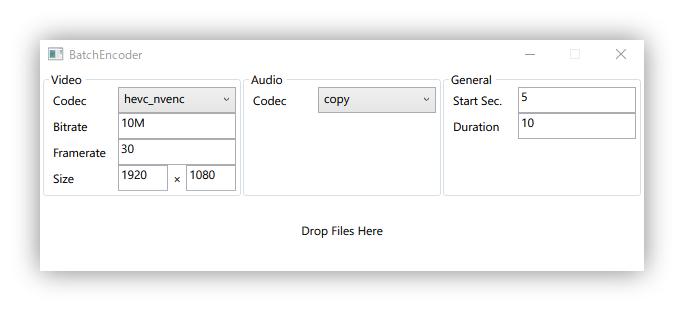
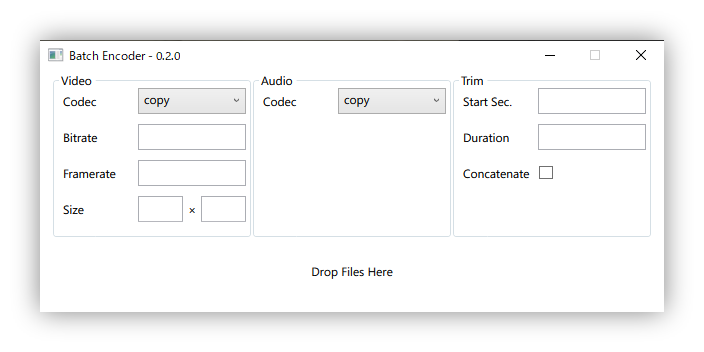
Version 0.2.0

Changed region(s): [[0.0614, 0.0868, 0.9518, 0.6367], [0.0614, 0.8682, 0.9518, 0.8971], [0.4298, 0.7235, 0.5833, 0.8103]]

diff --git a/Properties/AssemblyInfo.cs b/Properties/AssemblyInfo.cs
@@ -51,5 +51,4 @@ using System.Windows;
 // You can specify all the values or you can default the Build and Revision Numbers
 // by using the '*' as shown below:
 // [assembly: AssemblyVersion("1.0.*")]
-[assembly: AssemblyVersion("1.0.0.0")]
-[assembly: AssemblyFileVersion("0.1.0")]
+[assembly: AssemblyFileVersion("0.2.0")]
